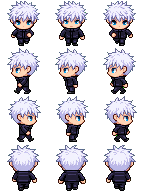
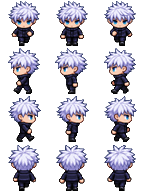
定稿五条悟战斗精灵与行走图风格
执行者: Codex（美术）
核查: 待审查

Changed region(s): [[0.7222, 0.0, 0.9444, 1.0], [0.3611, 0.0, 0.6111, 1.0], [0.0556, 0.0, 0.2778, 1.0]]

diff --git a/03_再刷重制_Godot/00_设计/角色精灵美术规范.md b/03_再刷重制_Godot/00_设计/角色精灵美术规范.md
@@ -1,0 +1,17 @@
+# 战斗精灵与行走图美术规范
+
+Kyo 于 2026-11-12 定稿。后续新增和重绘的战斗精灵、行走图，以五条悟这版的像素质感、明暗关系和原尺寸可读性为基准。
+
+[五条悟行走图](../01_Godot工程/content/gojo/$Codex_Gojo_Walk.png) · [五条悟战斗精灵](../01_Godot工程/content/gojo/Codex_Gojo_SV.png)
+
+## 画法
+
+- 用干净、有明确边界的像素色块组织轮廓、亮面和阴影。先在游戏原尺寸下看剪影，再细化发束、衣褶和五官。
+- 采用深色阴影和少量克制的边光，保证头脸、手势、脚部在暗色地图和战斗背景上仍清楚。五条悟的银白发束、冰蓝眼睛和冷靛制服是这名角色的配色，其他角色沿用自己的识别色和服装。
+- 行走和战斗外观使用一致的发型、服装细节和配色。用角色本身的体型和动作区分角色。常态图保持透明底，技能光效用独立素材。
+
+## 图集与审样
+
+- 五条悟的行走图为 3 列 × 4 行，每格 48×48，行序为下、左、右、上，每方向三帧。保持各方向的站姿、步态与脚底锚点稳定。
+- 五条悟的侧视战斗图为 9 列 × 6 行，每格 64×64，18 个动作各三帧。保留动作语义和各帧的脚底位置，受击、回避、睡眠和倒地等姿态应能在原尺寸区分。其他角色按[角色外观接口](框架维护约定.md#角色外观接口dev035部分已实现)选用现有图集或逐帧规格。
+- 交付透明 RGBA PNG。Godot 使用最近邻采样。审样同时检查原尺寸和动图，覆盖四方向、战斗关键动作、跨帧位置与图集边界。
